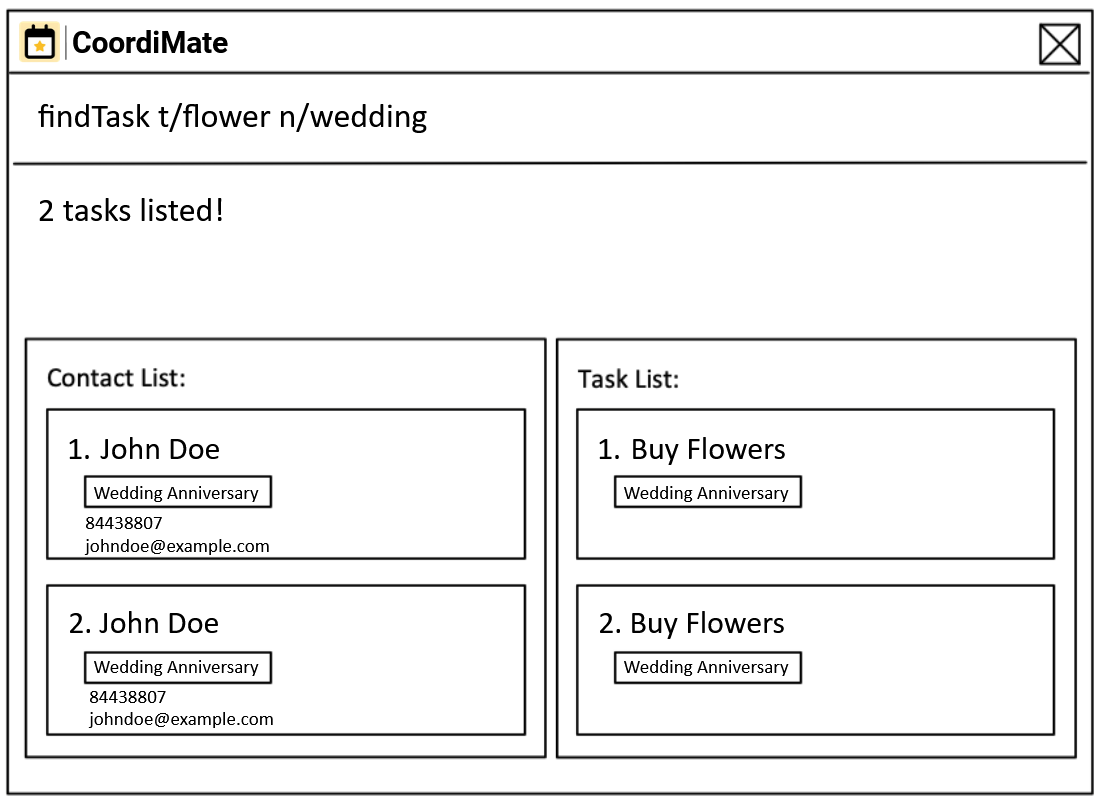
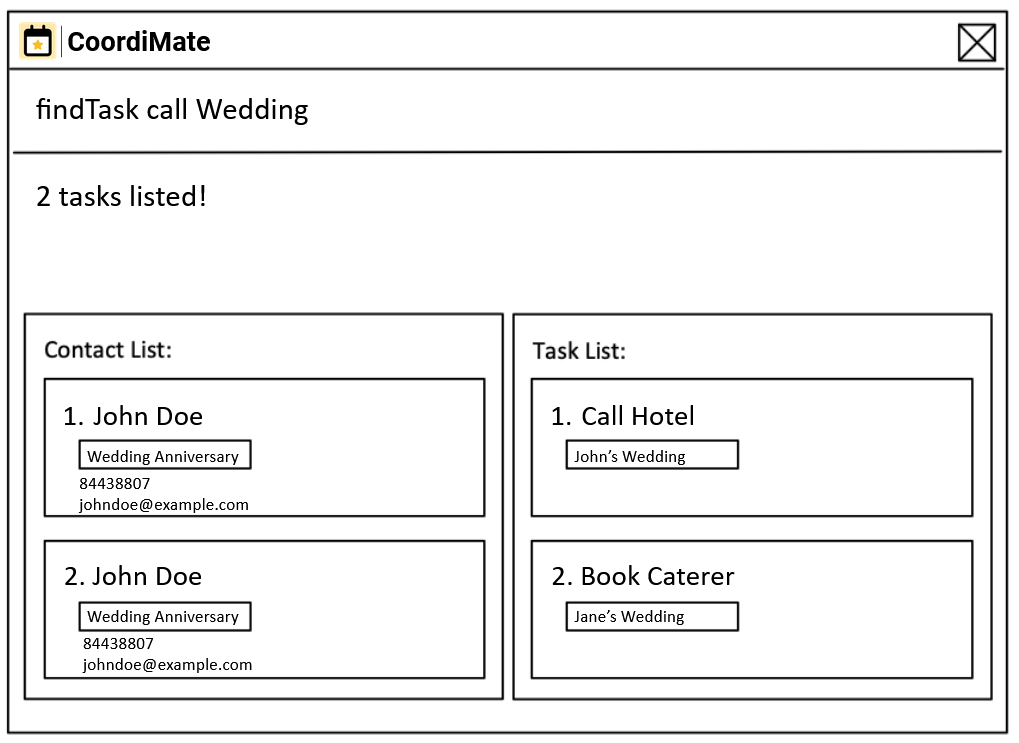
docs: Update findPerson and findTask documentation and mockups for UG

Changed region(s): [[0.0, 0.0, 1.0, 1.0]]

diff --git a/docs/DraftUserGuide.md b/docs/DraftUserGuide.md
@@ -226,21 +226,22 @@ To reset the Persons view, simply run the <code>listPerson</code> command to lis
 Format:
 
 ```
-findPerson KEYWORD [KEYWORDS]…
+findPerson KEYWORD [MORE_KEYWORDS]…
 ```
 
-- The search is case-insensitive. e.g `hans` will match `Hans`
-- The order of the keywords does not matter. e.g. `Hans Bo` will match `Bo Hans`
+- At least one keyword is required to search.
+- The search is case-insensitive. e.g `hans` will match `Hans`.
+- The order of the keywords does not matter. e.g. `Hans Bo` will match `Bo Hans`.
 - Only the name is searched.
-- Only full words will be matched e.g. `Han` will not match `Hans`
+- Only full words will be matched e.g. `Han` will not match `Hans`.
 - Persons matching at least one keyword will be returned (i.e. `OR` search).
-  - e.g. `Hans Bo` will match `Hans Gruber`, `Bo Yang`
+  - e.g. `Hans Bo` will match `Hans Gruber`, `Bo Yang`.
 
 Examples:
 
 - `findPerson John` returns `john` and `John Doe`
 - `findPerson alex david` returns `Alex Yeoh`, `David Li`
-- `findPerson alexo davido` returns `0 Persons Listed`
+- Assuming `Jane` is not in your contacts list, `findPerson Jane` returns `0 Persons Listed`.
 
 Output:
 
@@ -382,35 +383,38 @@ To reset the Tasks view, simply run the <code>listTasks</code> command to list a
 Format:
 
 ```
-findTask t/KEYWORD [KEYWORDS]… [n/KEYWORD [KEYWORDS]…]
+findTask KEYWORD [MORE_KEYWORDS]…
 ```
 
-- The search is case-insensitive. e.g `call` will match `Call`
-- The order of the keywords does not matter. e.g. `Call Caterer` will match `Caterer Call`
-- By default, only the title is searched.
-  - To search both the title and note, use the `n/` prefix.
-- Only full words will be matched e.g. `Call` will not match `Calls`
-- Tasks matching at least one keyword will be returned (i.e. `OR` search).
-  - e.g. `Call Caterer` will match `Call Hotel`, `Book Caterer`
+- At least one keyword is required to search.
+- The search is case-insensitive. e.g `call` will match `Call`.
+- The order of the keywords does not matter. e.g. `Call Caterer` will match `Caterer Call`.
+- Both the title and note of a task is searched.
+- Only full words will be matched e.g. `Call` will not match `Calls`.
+- Tasks matching at least one keyword in either the title or the note will be returned (i.e. `OR` search).
+  - e.g. `Call Wedding` will match `Call Hotel`, `Wedding Anniversary`.
 
 Examples:
 
-- `findTask t/Call` returns tasks with titles `call` and `Call Caterer`
-- `findTask t/Call Caterer` returns tasks with titles `Call Flower`, `Caterer Find`
-- `findTask t/Call n/Wedding` returns tasks with titles `Call` and note `Wedding`
+- `findTask Call Wedding` 
+  - Finds tasks with titles or notes containing either `Call` or `Wedding`.
+- `findTask Photography`
+  - Finds tasks with titles or notes containing `Photography`.
+- `findTask`
+  - Negative example as no keywords are specified.
 
 Output:
-- There are search outcomes to be displayed.
+- Both tasks are displayed as Task 1 has the word `Call` in its title and Task 2 has the word `Wedding` in its note.
 
   ![findTask_success](images/output/findTask_success.png)
 
-- There are no search outcomes to be displayed.
+- There are no tasks to be displayed, as no Task has the word `Photography` in its title or note.
   
   ![findTask_noResults](images/output/findTask_noResults.png)
 
 Errors:
 
-- Incorrect number of parameters.
+- No keywords are specified.
   
   ![findTask_error](images/error/findTask_error.png)
 
